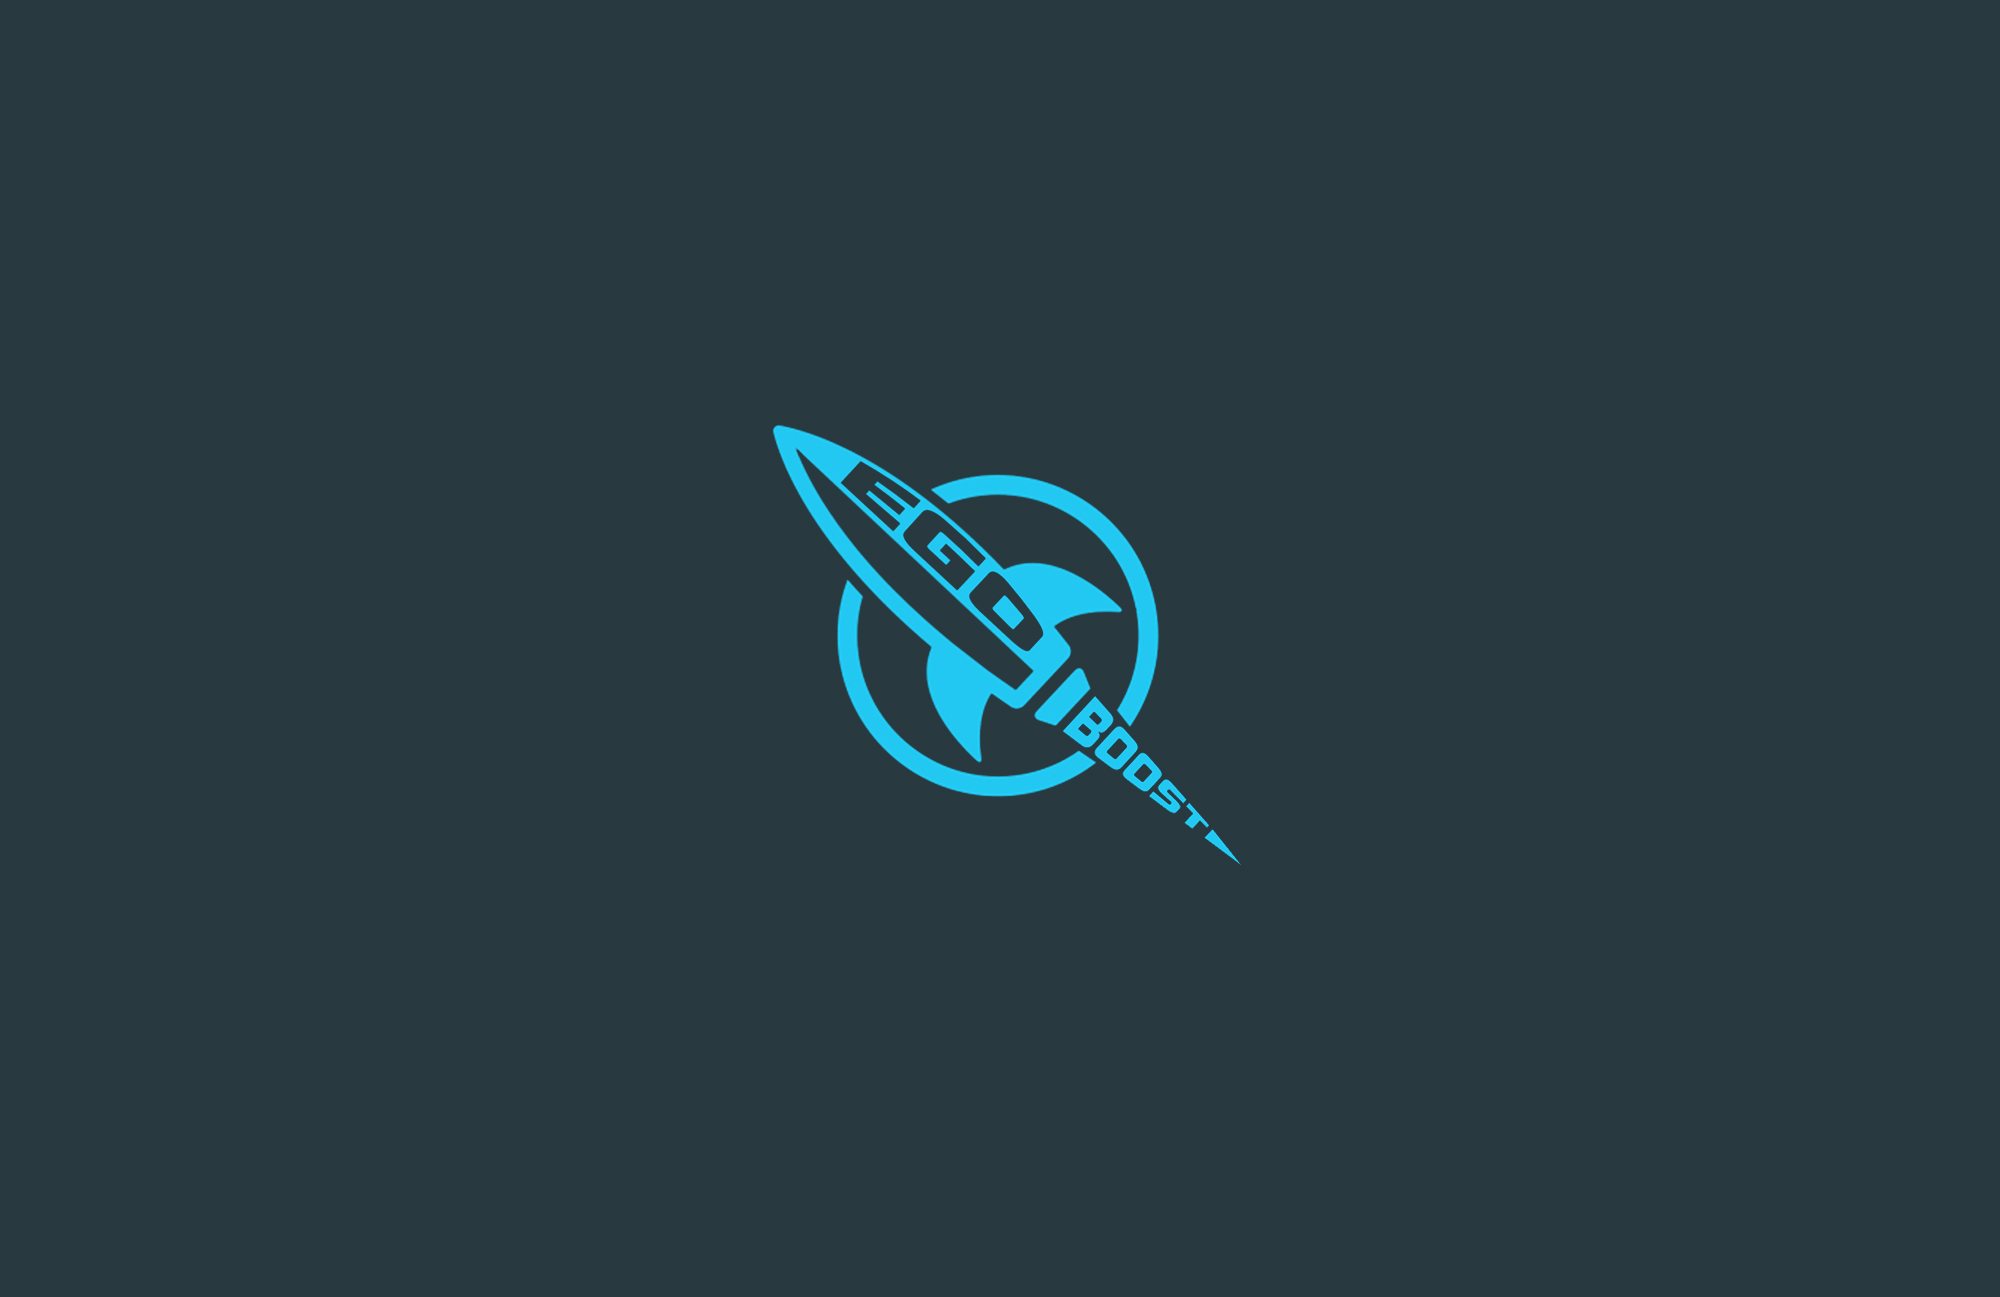
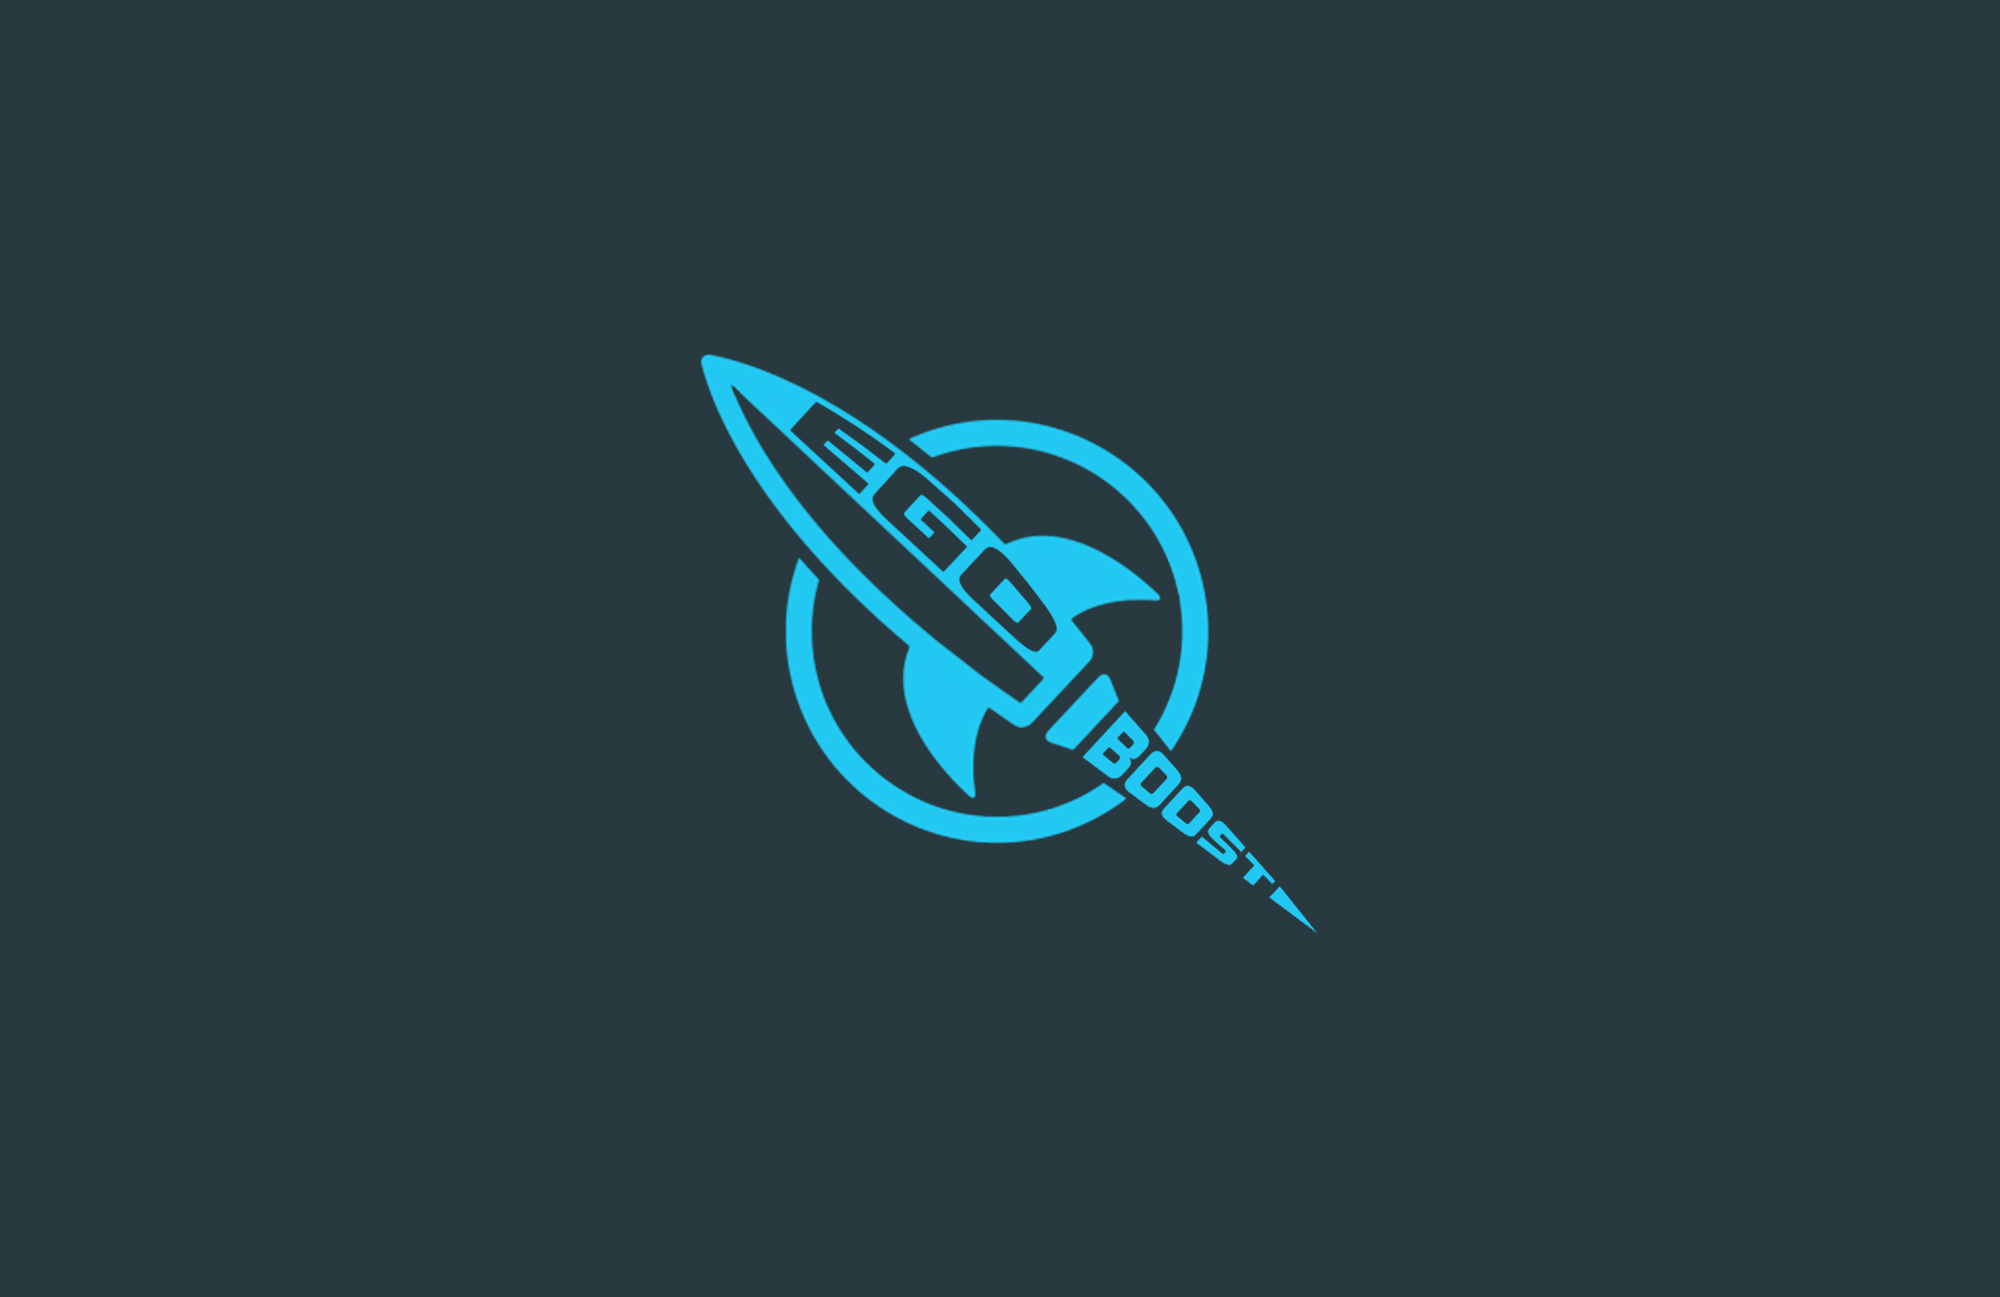
changed title screen

Changed region(s): [[0.341, 0.2776, 0.651, 0.7093]]

diff --git a/assets/css/main.css b/assets/css/main.css
@@ -2096,7 +2096,7 @@
 
 	#header {
 		position: relative;
-		background-image: url("../../images/header.jpg");
+		background-image: url("../../images/titlescreen.jpg");
 		background-size: cover;
 		background-position: center center;
 		background-attachment: fixed;
